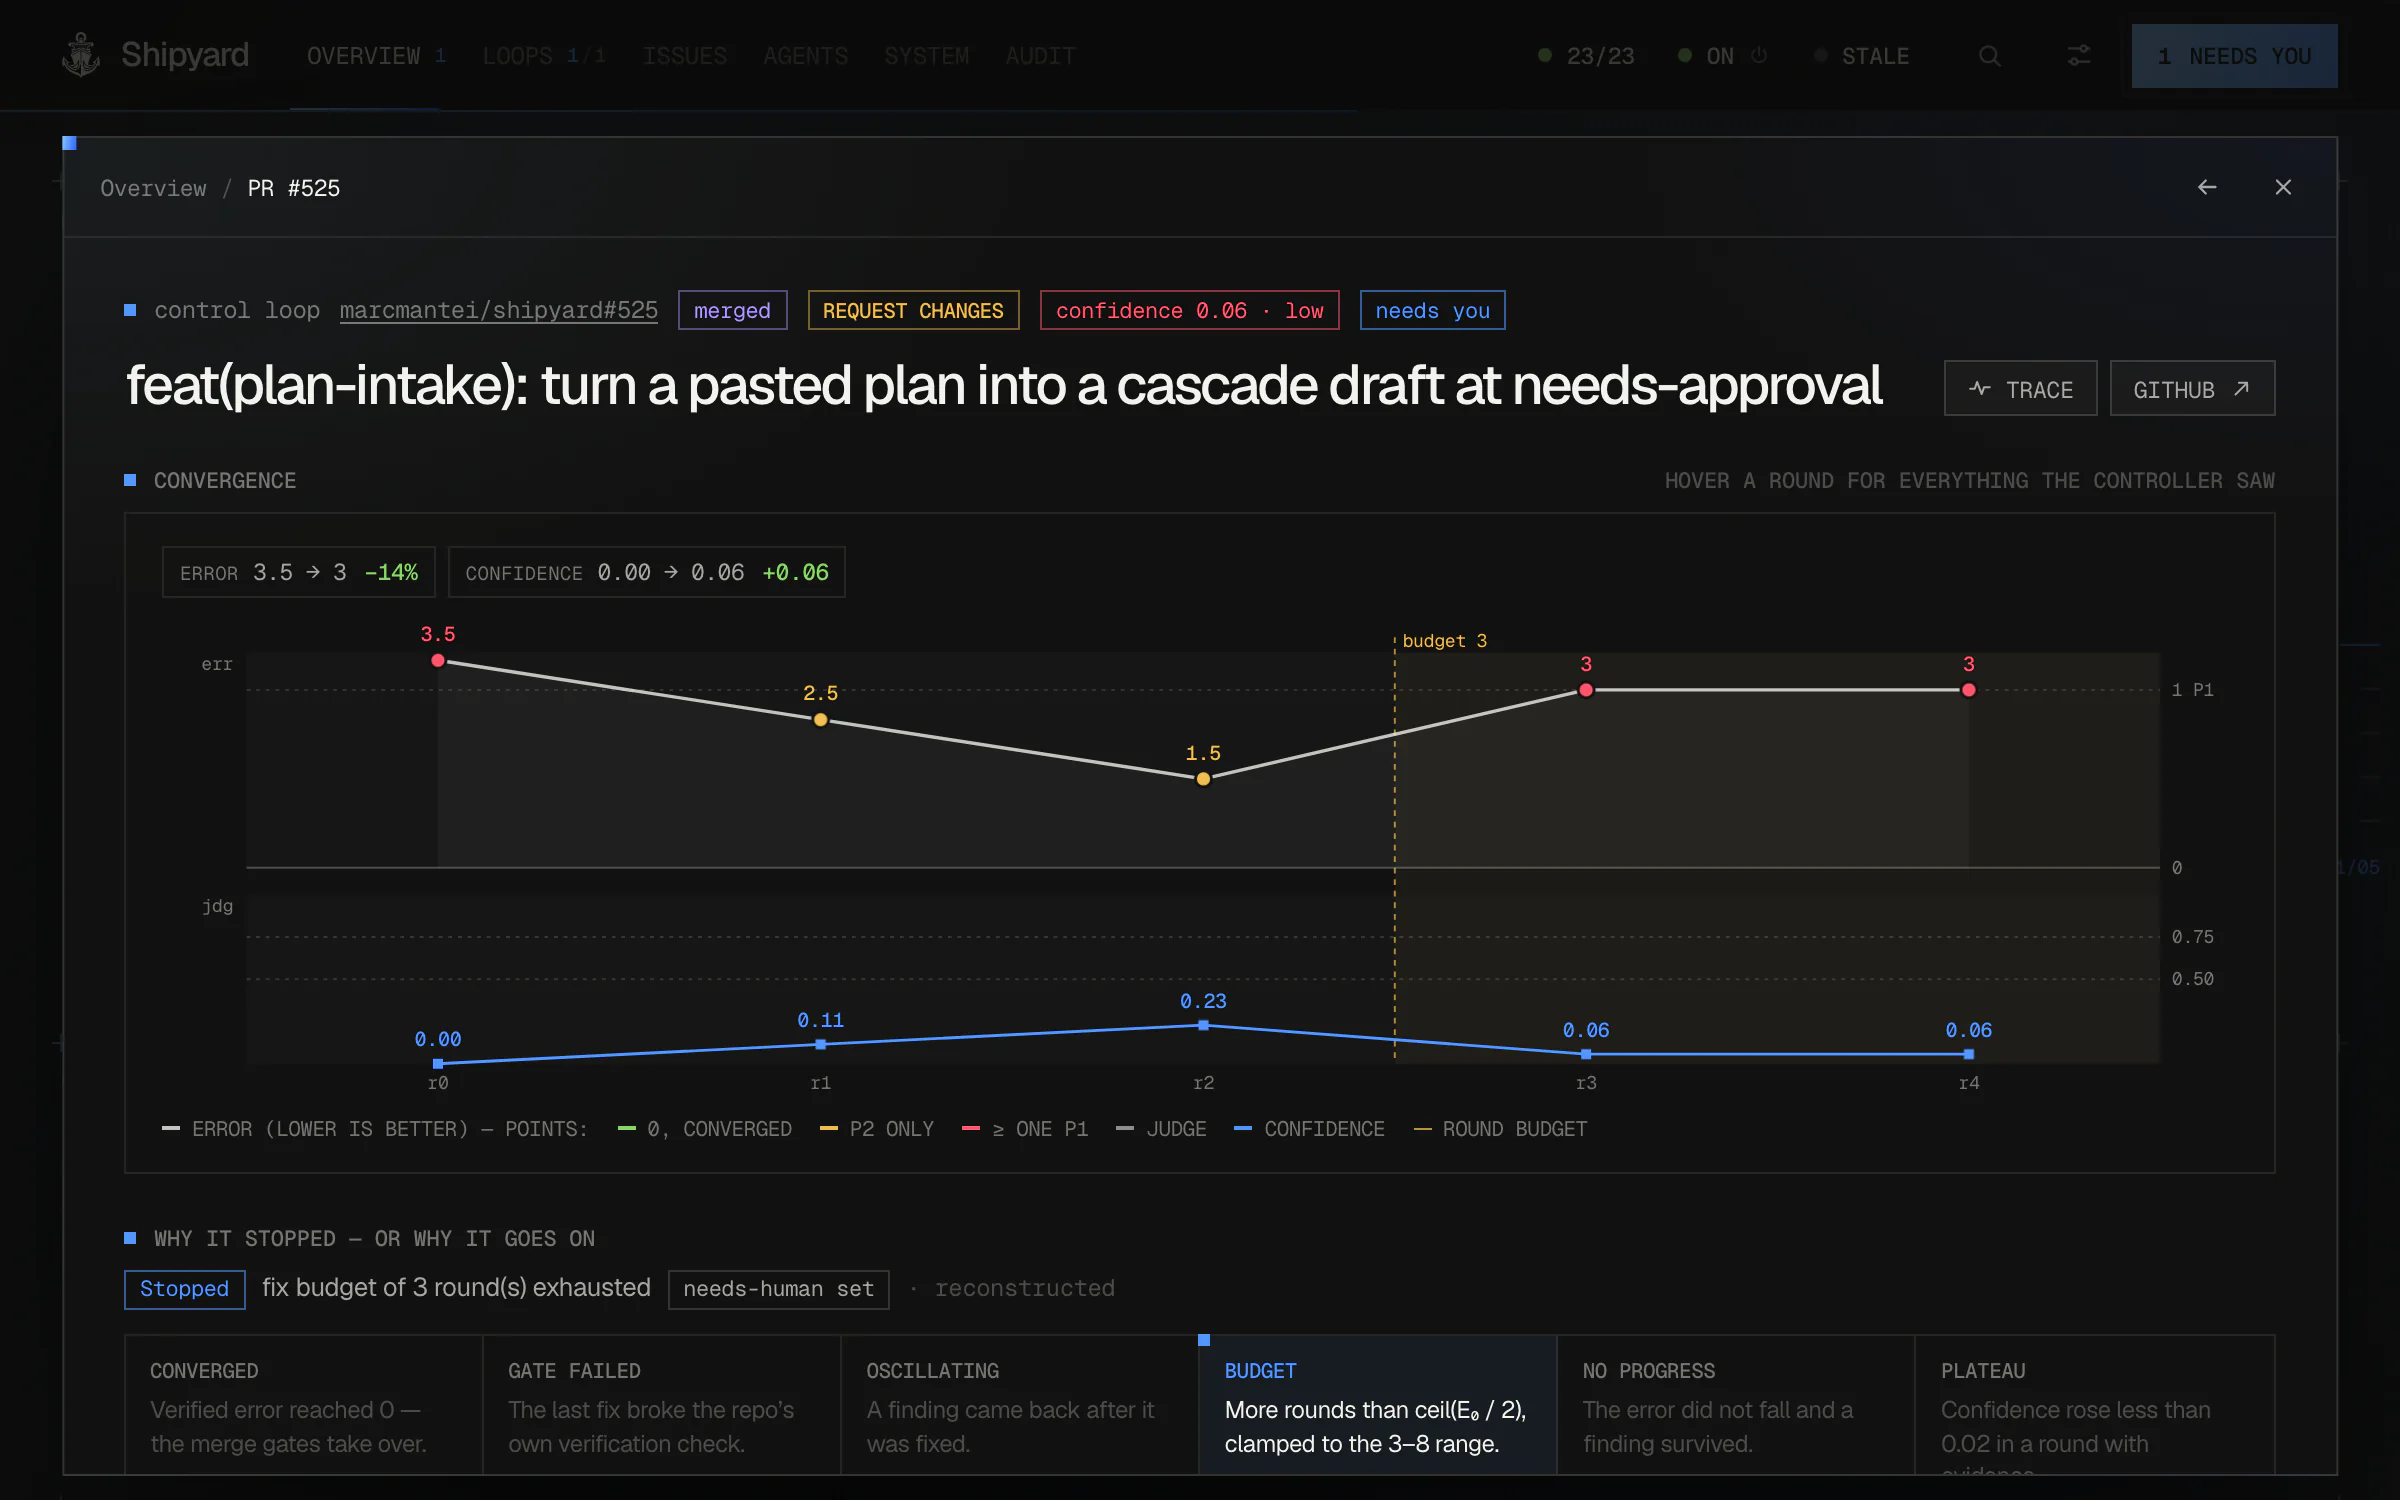
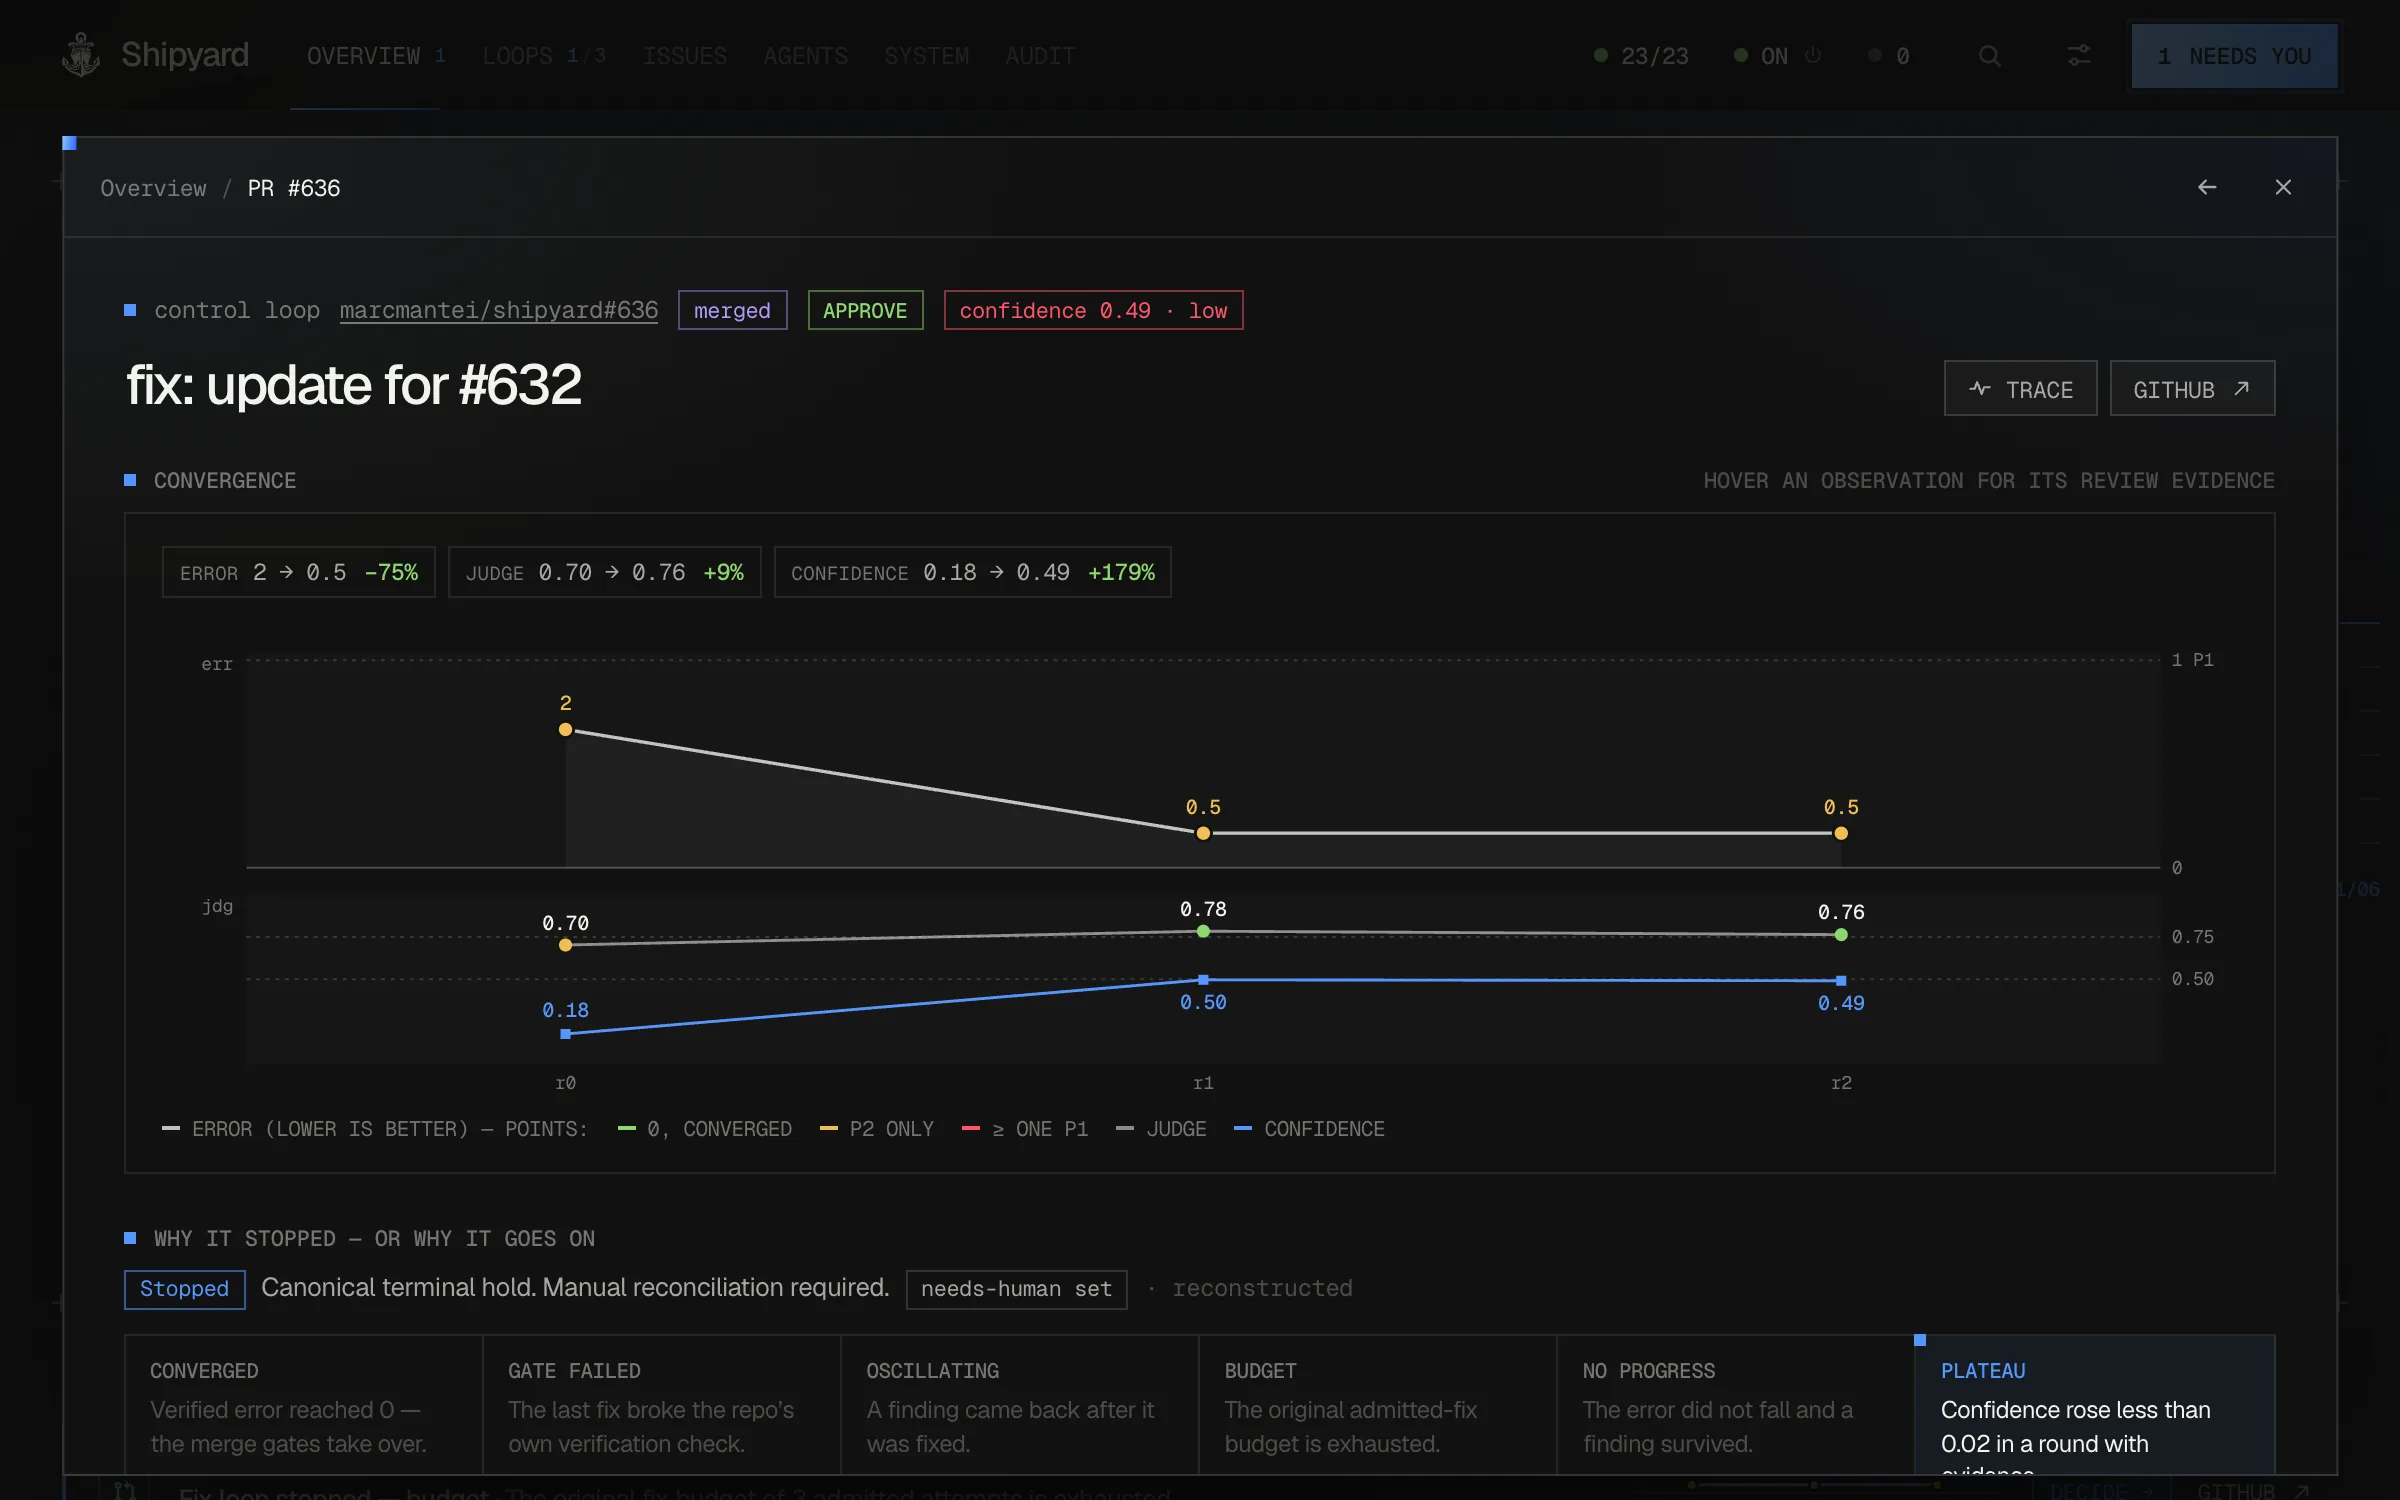
Replace Shipyard screenshots with fresh Mission Control captures
Captured 2026-10-16 from the live console at 2x (2400x1500) through
Shipyard's read-only preview (POSTs refused), with a filter that drops
every entry mentioning a repository other than shipyard, marcmantei.com
and myceliums. Overview with 14-day KPI charts, the flight recorder of a
converging loop (shipyard#636), a decision brief (shipyard#638) and the
finished-case grading view.

diff --git a/README.md b/README.md
@@ -26,9 +26,9 @@ More than ten years of workflow automation, from Netflix's virtual production st
 
 AI agents write code fast, but unattended output is hard to trust. Shipyard turns an approved plan into merged software: independent AI workers build, review and fix each issue, wave by wave. Every automated decision runs inside a closed control loop with a measured signal, a hard cap and an escalation path to a human. In production since May 2026.
 
-![Shipyard Mission Control: the fleet in one sentence, and only what needs a person on top](assets/shipyard-mission-control.webp)
+![Shipyard Mission Control overview: "1 thing needs you", with 14-day charts for CI minutes, commits and API-equivalent value](assets/shipyard-overview.webp)
 
-*Mission Control, live: the fleet in one sentence, and only what needs a person on top.*
+*Mission Control, live: the fleet in one sentence, only what needs a person on top, and 14 days of CI minutes, commits and API-equivalent value.*
 
 Shipyard opened **267 pull requests** on its own across 10 repositories. **240 were merged**: 75 by its own merge gates, 165 by me. About 90% of the commits in my repositories over the last six months were written by it. Over 1 billion tokens metered, 276 PRs through its AI reviewer (as of 24 Sep 2026).
 
@@ -37,9 +37,16 @@ Shipyard opened **267 pull requests** on its own across 10 repositories. **240 w
 - **81 escalations since July**: when the error stops falling or the round budget runs out, it stops and asks. It raised 78 of them itself
 - **1 plan → 7 merged PRs**: a terrain generator went from one approval to seven merged pull requests for €16.23 of model time at list price
 
-![A loop's flight recorder: error, judge and confidence per round, and which of six rules stopped it](assets/shipyard-flight-recorder.webp)
+![A loop's flight recorder for shipyard#636: error 2 to 0.5, judge 0.70 to 0.76, confidence 0.18 to 0.49, and the plateau rule that stopped it](assets/shipyard-flight-recorder.webp)
 
-*A loop's flight recorder: error, judge and confidence per round, and which of six rules stopped it.*
+*A loop's flight recorder: error fell 75% over three rounds while confidence rose, and it names which of six rules stopped it.*
+
+<p>
+  <img src="assets/shipyard-decision-brief.webp" alt="Decision brief for shipyard#638: the fix loop stopped on budget and waits for a call, with its evidence and trajectory" width="49%" />
+  <img src="assets/shipyard-grading.webp" alt="Finished projects: grade distribution A 16, B 11, C 5, D 1, and where weak cases lose by control-loop component" width="49%" />
+</p>
+
+*Left: every waiting item opens as a decision, with the situation in one sentence and the evidence behind it. Right: every finished case is graded A to D, and weak cases are traced to the control-loop component that lost them.*
 
 Six loop families, nested by timescale, so every ring can stop what runs inside it: the eval loop on every AI output, the build loop per issue, the cascade every ten minutes, the hill-climbing engine every six hours. The review budget is earned by the size of the problem (3 to 8 rounds), and loop state lives on the PR itself, so it survives restarts. Guardrails are structural: the worker that builds a PR never reviews it, and no agent merges its own work.
 
